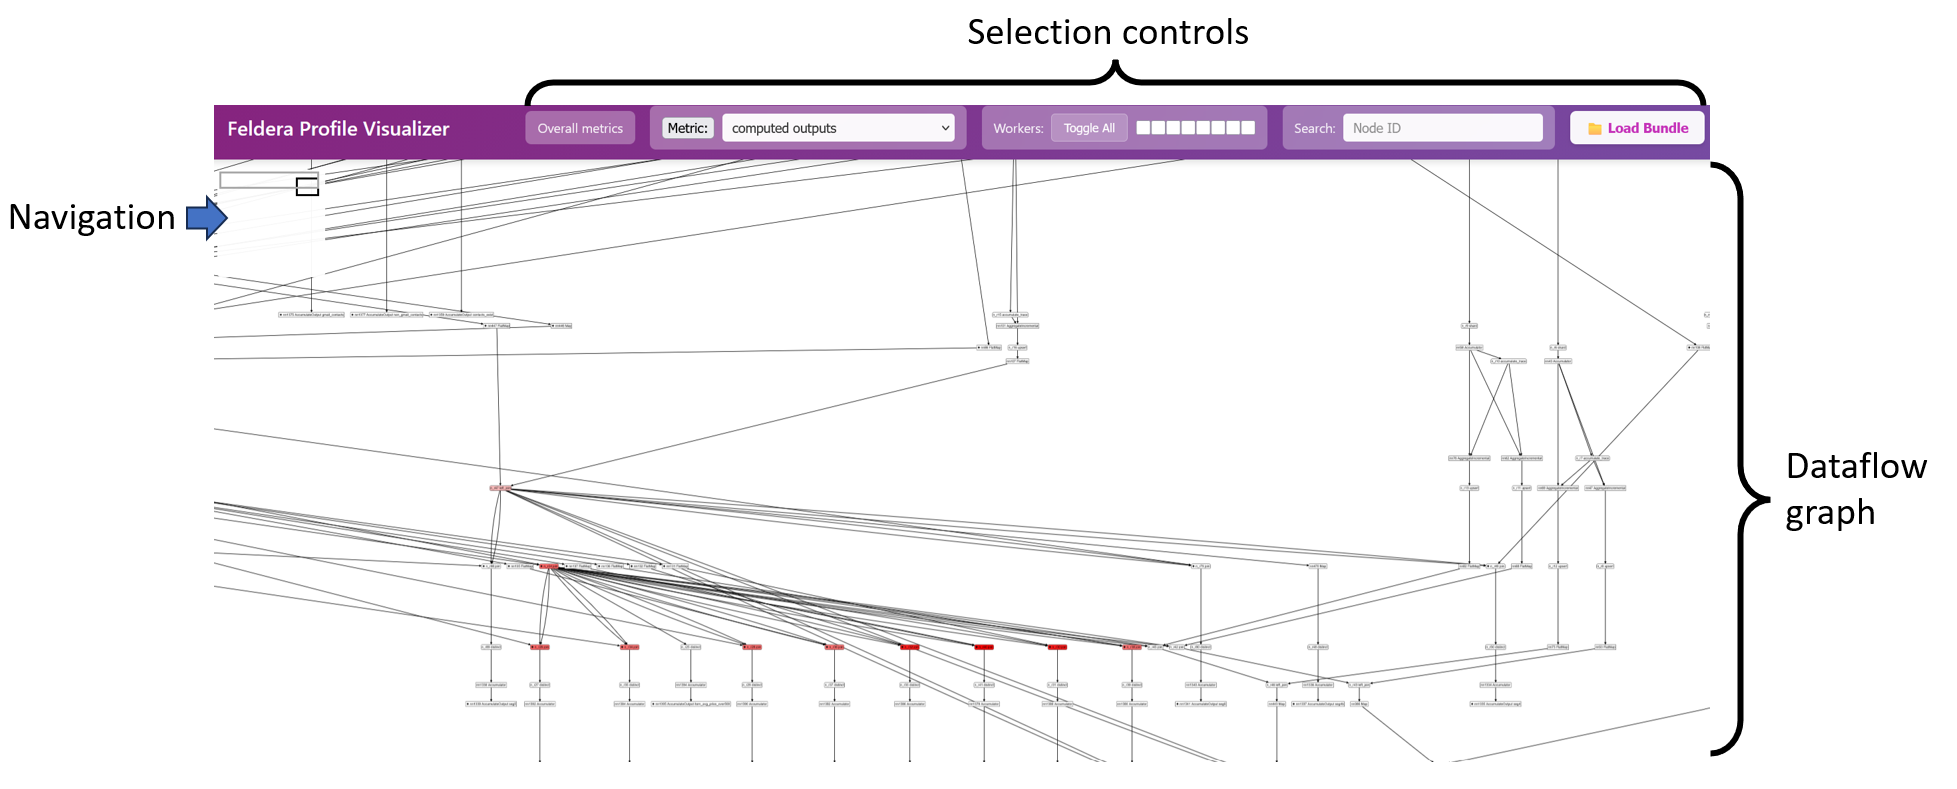
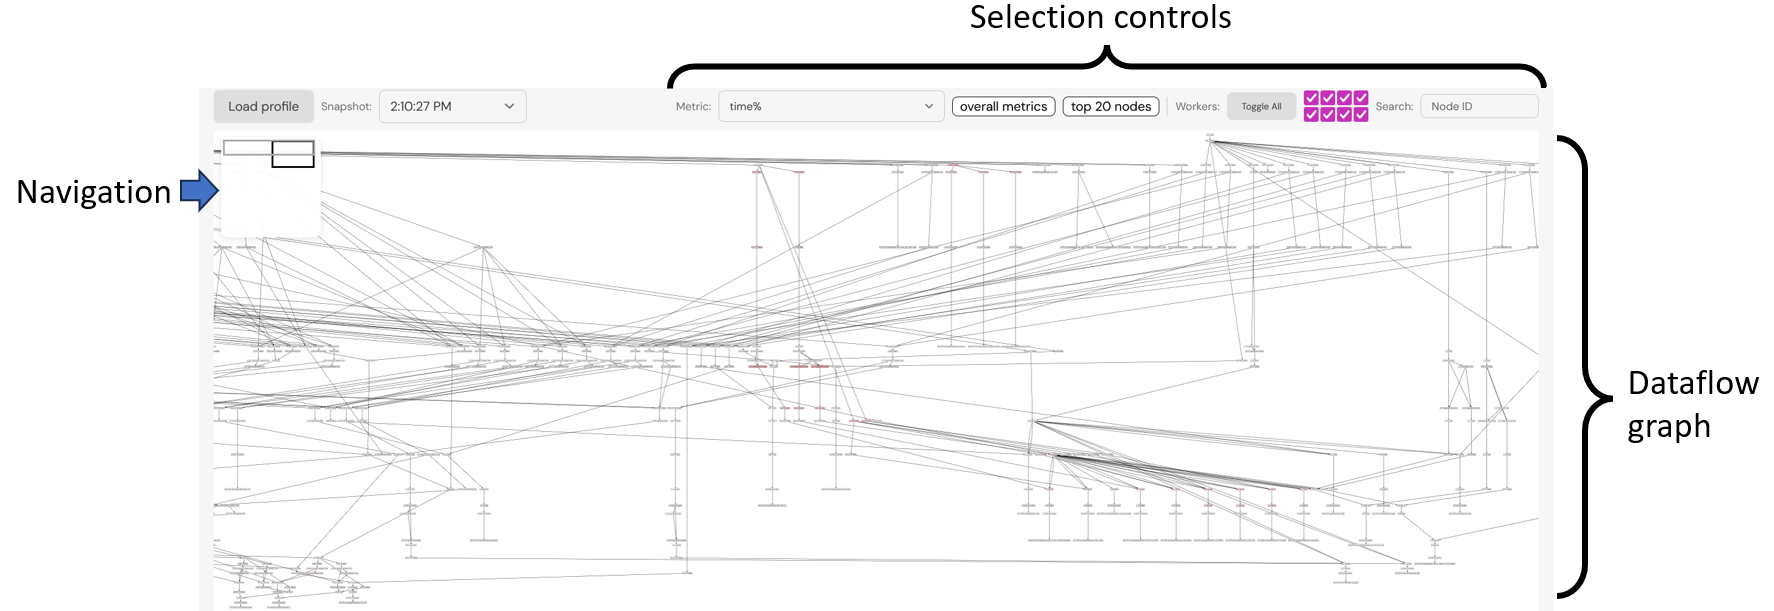
[DOCS] Update profiler visualizer documentation

diff --git a/js-packages/profiler-lib/src/profile.ts b/js-packages/profiler-lib/src/profile.ts
@@ -280,10 +280,6 @@ export function measurementCategory(prop: string): MeasurementCategory {
     map.set("CPU", [
         "time%",
         "invocations",
-        "left inputs",
-        "right inputs",
-        "computed outputs",
-        "inputs",
         "steps",
         "wait_time",
         "exchange_wait_time",
@@ -322,6 +318,7 @@ export function measurementCategory(prop: string): MeasurementCategory {
         "slot 2 merging",
         "slot 3 merging",
         "slot 4 merging",
+        "storage size",
         "batch sizes",
         "bounds",
         "Bloom filter size",
@@ -334,12 +331,15 @@ export function measurementCategory(prop: string): MeasurementCategory {
         "foreground cache occupancy",
         "background cache occupancy"]);
     map.set("memory", [
+        "left inputs",
+        "right inputs",
+        "computed outputs",
+        "inputs",
         "total size",
         "allocated bytes",
         "used bytes",
         "shared bytes",
         "batches",
-        "storage size",
         "allocations"]);
     for (const [k, v] of map) {
         for (const value of v) {

diff --git a/docs.feldera.com/docs/operations/visualizing-profiles.md b/docs.feldera.com/docs/operations/visualizing-profiles.md
@@ -67,7 +67,7 @@ as a zip file from a third party.
 
 ## Profiler visualization UI
 
-The profiler visualization interface has is shown in the following
+The profiler visualization interface is shown in the following
 image:
 
 ![Profiler UI structure](ui-structure.png)
@@ -195,9 +195,8 @@ high value, while a white node has a low value.
 
 #### Finding nodes with high value of a metric
 
-Clicking on the button labeled "Metric:" will display a table with
-nodes that have a high value with respect to this metric (at most 20
-nodes are displayed):
+Clicking on the button labeled "top 20 nodes" will display a table with
+nodes that have a high value with respect to this metric:
 
 ![Finding nodes with high values for a metric](important-nodes.png)
 
